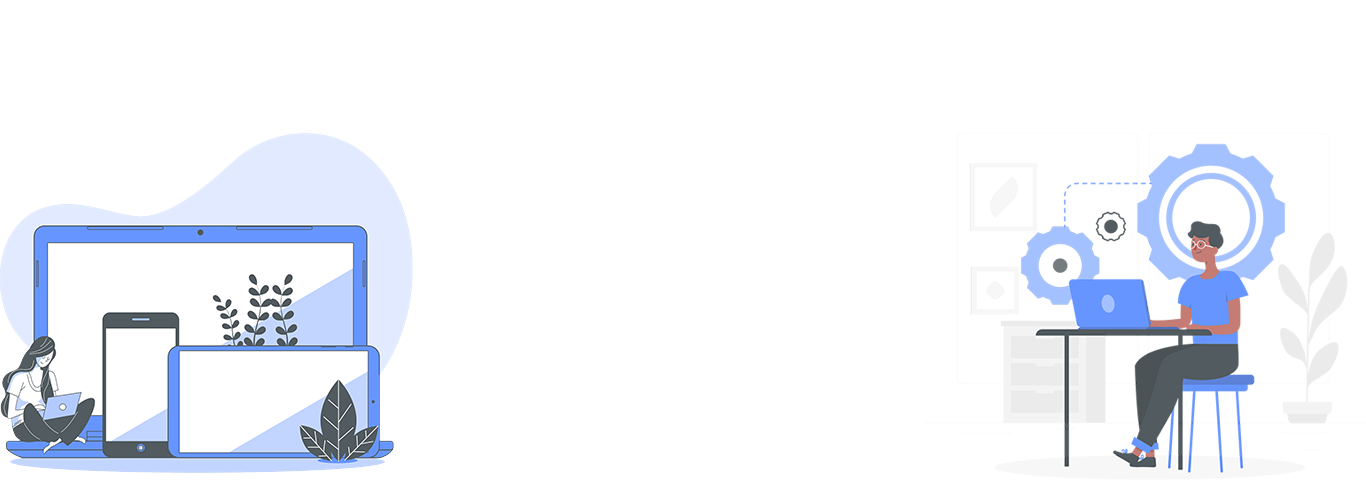
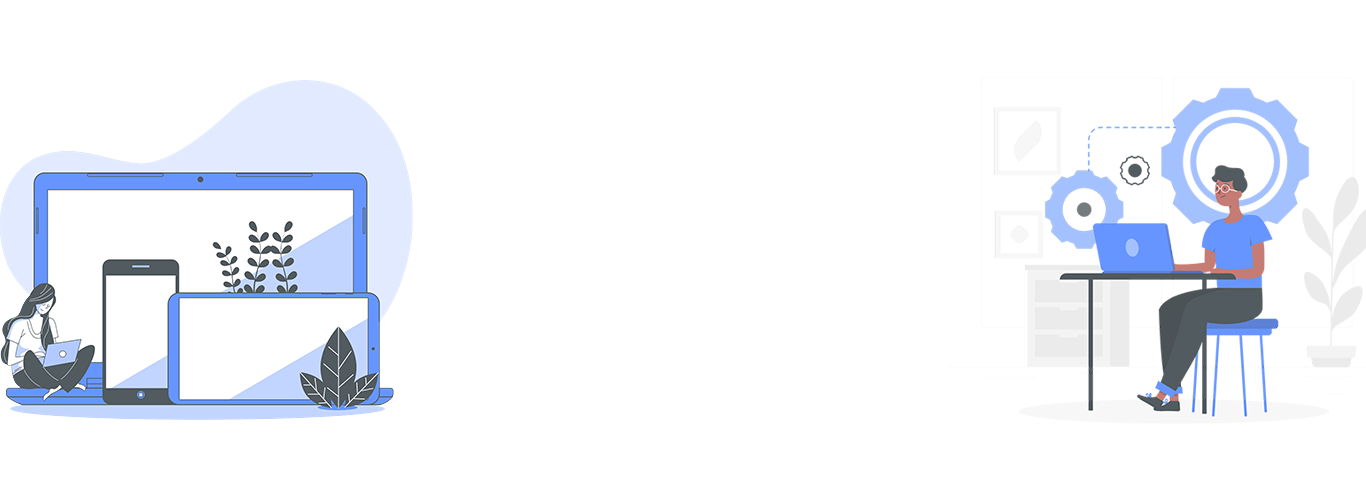
finished inital style

Changed region(s): [[0.0, 0.15, 0.3075, 0.96], [0.7379, 0.18, 0.9839, 0.96]]

diff --git a/index.html b/index.html
@@ -51,7 +51,7 @@
             </div>
         </div>
     </div>
-    <div class="container-fluid bg-cover secheader overflow-auto d-flex">
+    <div class="container-fluid bg-cover h-500 overflow-auto d-flex">
         <div class="container p-0 mheader my-auto">
             <div>
                 <h1 class="titleheader">Codia : Shitty Developers</h1>
@@ -60,6 +60,79 @@
                 </p>
             </div>
         </div>
+    </div>
+    <div class="container-fluid bgcolor1">
+        <div class="container p-0">
+            <div class="row">
+                <div class="col-lg-8  d-flex h-500">
+                    <div class="my-auto p-5">
+                        <h2>Meet the retards</h2>
+                        <p>Lorem ipsum dolor sit amet consectetur adipisicing elit.
+                             Iste reiciendis facere dolorem corrupti saepe voluptas 
+                             quod laboriosam nemo omnis atque consectetur consequatur 
+                             blanditiis, id dignissimos incidunt eaque non cum alias.</p>
+                        <button class="btn1 white">
+                            Learn more
+                        </button>
+                    </div>
+                </div>
+                <div class="col-lg-4  d-flex h-500">
+                    <div class="my-auto mx-auto">
+                        <img src="img/team.svg" height="230px" alt="">
+                    </div>
+                </div>
+            </div>
+        </div>
+    </div>
+    <div class="container-fluid">
+        <div class="container p-0">
+            <div class="row">
+                <div class="col-lg-4 d-flex h-500">
+                    <div class="my-auto mx-auto">
+                        <img src="img/money.svg" height="270px" alt="">
+                    </div>
+                </div>
+                <div class="col-lg-8 d-flex h-500">
+                    <div class="my-auto p-5">
+                        <h2>Pay or get out</h2>
+                        <p>Lorem ipsum dolor sit amet consectetur adipisicing elit.
+                             Iste reiciendis facere dolorem corrupti saepe voluptas 
+                             quod laboriosam nemo omnis atque consectetur consequatur
+                              blanditiis, id dignissimos incidunt eaque non cum alias.</p>
+                        <button class="btn1">
+                            Learn more
+                        </button>
+                    </div>
+                </div>
+            </div>
+        </div>
+    </div>
+    <div class="container-fluid bgcolor1">
+        <div class="container p-0">
+            <div class="row">
+                <div class="col-lg-8  d-flex h-500">
+                    <div class="my-auto p-5">
+                        <h2>Still want something ?</h2>
+                        <p>Lorem ipsum dolor sit amet consectetur adipisicing elit.
+                             Iste reiciendis facere dolorem corrupti saepe voluptas
+                              quod laboriosam nemo omnis atque consectetur consequatur
+                               blanditiis, id dignissimos incidunt eaque non cum alias.
+                        </p>
+                        <button class="btn1 white">
+                            Learn more
+                        </button>
+                    </div>
+                </div>
+                <div class="col-lg-4  d-flex h-500">
+                    <div class="my-auto mx-auto">
+                        <img src="img/contact.svg" height="270px" alt="">
+                    </div>
+                </div>
+            </div>
+        </div>
+    </div>
+    <div class="foot d-flex">
+        <p class="m-auto">Copyrights © 2020, You copy you gay</p>
     </div>
 </body>
 </html>

diff --git a/css/main.css b/css/main.css
@@ -6,7 +6,7 @@ body{
     margin: 0;
     background-repeat: no-repeat;
     background-attachment: fixed;
-    background-color: white;
+    background-color: #f7f7f7;
     /* background: rgb(19,60,85);
     background: linear-gradient(135deg, rgba(19,60,85,1) 0%, rgba(56,111,164,1) 100%); */
     font-family: 'Open Sans', sans-serif;
@@ -29,9 +29,6 @@ hr{
     background-size: cover;
     background-color: #f7f7f7;
 
-}
-.secheader{
-    height: 500px;
 }
 .navlink{
     color: black;
@@ -76,4 +73,24 @@ hr{
 }
 h1{
     font-size: 70px;
+}
+.bgcolor1{
+    background-color : #227C9D;
+    color: white;
+}
+.h-500{
+    height: 500px;
+}
+.btn1{
+    background-color: transparent;
+    border: solid 2px;
+    border-radius: 2px;
+    padding: 10px;
+}
+.white{
+    color :white;
+}
+.foot{
+    text-align: center;
+    height: 50px;
 }
